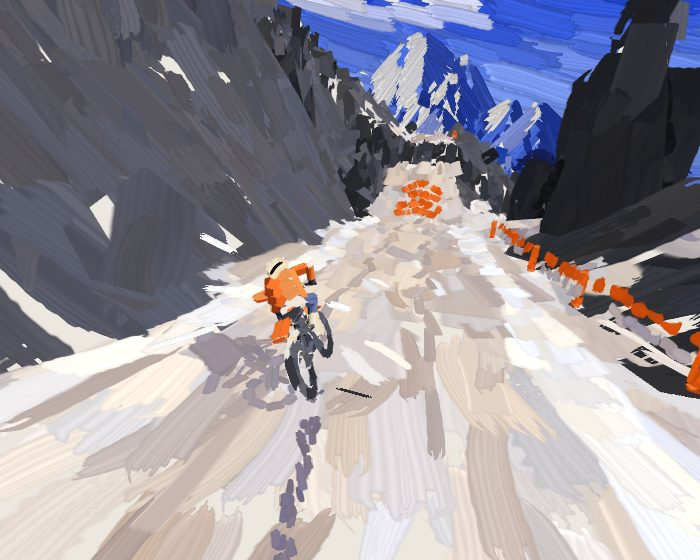
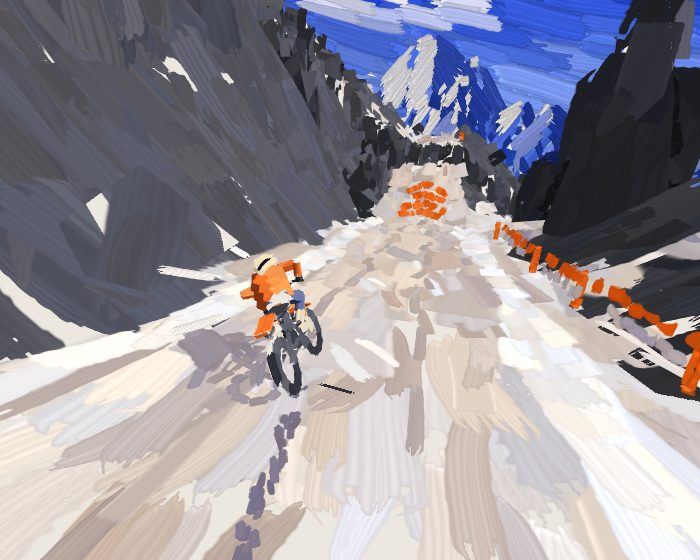
lab/switchback: middle-distance hills in the world between road and river
Two ridges per 240-station stretch, 250-950 m out on the drop side, world
anchored so they pass with real parallax; painted like the ranges with a
forest over their lower slopes; streamed ahead of the rider.

Claude-Session: https://claude.ai/code/session_01XxjdrEubiC3ZZ3ppUeUc93

diff --git a/cells/lab/client/switchback/paint.ts b/cells/lab/client/switchback/paint.ts
@@ -429,6 +429,61 @@ export function foothillStrokes(seed: number): Float32Array {
   for (const g of foothillProfiles(seed)) layerStrokes(g, seed, out);
   return new Float32Array(out);
 }
+/** The middle distance: hills between the road and the river, on the drop side, standing in the world (not drawn about
+ * the eye), so they pass by as you ride, the nearer faster: two ridges along each stretch of the way (`k`, 240 stations
+ * each), one 250-500 m out, one 550-950 m out, each a crest that rises to a summit or two and falls into saddles, their
+ * feet below the valley's floor; painted as the far ranges are (rows of strokes under each run of the crest, along it,
+ * turning down the fall lower down, lit from the left of the way you look), the farther hazier, a forest over the lower
+ * slopes, its top ragged with treetops. Nowhere within 180 m of the road (a hairpin's other leg) */
+export const MID_SPAN = 240;
+export function midHillStrokes(c: Course, k: number): Float32Array {
+  const R0 = rng(c.seed * 7121 + k * 97), list: number[][] = [], s0 = k * MID_SPAN, s1 = s0 + MID_SPAN;
+  // (the road nearby, to keep clear of)
+  const road: number[][] = [];
+  for (let s = Math.max(0, s0 - 900); s < s1 + 900; s += 15) { const p = c.point(s, 0); road.push([p.x, p.z]); }
+  const clear = (x: number, z: number) => road.every(([rx, rz]) => (rx - x) ** 2 + (rz - z) ** 2 > 180 * 180);
+  for (const [U0, dU, H0, haze] of [[550, 400, 320, 0.12], [250, 250, 200, 0.04]] as number[][]) {
+    const u0 = U0 + R0() * dU, base = c.point(s0 + MID_SPAN / 2, 0).y - 340, ph = R0() * 6.28, peaks = 1 + Math.floor(R0() * 2);
+    // (the crest: from the stretch's start to its end, rising to its summits; its ends low so stretches meet in saddles)
+    const crest: number[][] = [];
+    for (let s = s0 - 30; s <= s1 + 30; s += 30) {
+      const f = (s - s0 + 30) / (MID_SPAN + 60), u = u0 + 60 * Math.sin(f * 4 + ph);
+      const lift = Math.pow(Math.max(0, Math.sin(Math.PI * f * peaks + ph * 0.3)), 1.1) * 0.65 + 0.35 * Math.sin(Math.PI * f);
+      const p = c.point(s, u), top = base + 90 + H0 * lift * (0.92 + 0.16 * R0());
+      crest.push([p.x, top, p.z, clear(p.x, p.z) ? 1 : 0]);
+    }
+    const dist = u0, W0 = Math.max(4, dist * 0.022), L0 = dist * 0.09;
+    for (let i = 0; i < crest.length - 1; i++) {
+      const A = crest[i], B = crest[i + 1];
+      if (!A[3] || !B[3]) continue;
+      const dx = B[0] - A[0], dz = B[2] - A[2], hl = Math.hypot(dx, dz) || 1, dh = B[1] - A[1];
+      // (down along the crest; toward the road is the face you see)
+      let tx = dx / hl, tz = dz / hl, ty = dh / hl; if (ty > 0) { tx = -tx; tz = -tz; ty = -ty; }
+      const toward = [-dz / hl, 0, dx / hl], mid = [(A[0] + B[0]) / 2, (A[2] + B[2]) / 2], pr = c.point(s0 + MID_SPAN / 2, 0);
+      if ((pr.x - mid[0]) * toward[0] + (pr.z - mid[1]) * toward[2] < 0) { toward[0] = -toward[0]; toward[2] = -toward[2]; }
+      const slope = Math.min(1, Math.abs(dh) / hl * 3), side = (dh > 0 ? 1 : -1);
+      const tall = (A[1] + B[1]) / 2 - base, rowH = W0 * 0.55;
+      for (let r = 0; r * rowH < tall; r++) {
+        const depth = r * rowH, df = depth / tall, turn = depth > L0 * 0.6 ? Math.min(0.6, df) : 0;
+        const T = [tx * (1 - turn), ty * (1 - turn) - turn, tz * (1 - turn)], tl = Math.hypot(T[0], T[1], T[2]); T[0] /= tl; T[1] /= tl; T[2] /= tl;
+        const L = Math.min(L0 * 1.6, hl * 0.9) * (0.8 + R0() * 0.4), n = Math.max(1, Math.round(hl / (L * 0.6)));
+        for (let j = 0; j < n; j++) {
+          const f = (j + 0.2 + R0() * 0.6) / n, x = A[0] + dx * f, z = A[2] + dz * f, cy = A[1] + dh * f, y = cy - depth - W0 * (0.4 + R0() * 0.3);
+          if (y < base) continue;
+          const forest = df > 0.42 + 0.12 * Math.sin(x * 0.02 + z * 0.013);
+          const nn = [toward[0] * 0.8 + tx * side * 0.4 * slope, 0.45 - df * 0.3, toward[2] * 0.8 + tz * side * 0.4 * slope], nl = Math.hypot(nn[0], nn[1], nn[2]);
+          plan(list, x, y, z, forest ? M.FOREST : M.RIDGE, haze, forest ? [T[0] * 0.3 + tx * 0.7, 0, T[2] * 0.3 + tz * 0.7] : T, L, [nn[0] / nl, nn[1] / nl, nn[2] / nl], W0 * 1.05, R0(), [0, 7, 0, 1][Math.floor(R0() * 4)], (R0() - 0.5) * 0.1, forest ? 1 + Math.floor(R0() * 3) : 4);
+          // (the forest's top: treetops standing out of it)
+          if (forest && R0() < 0.35 && df < 0.62) plan(list, x, y + W0 * 0.8, z, M.FOREST, haze, [0, -1, 0], W0 * (1.2 + R0()), [toward[0], 0.2, toward[2]], W0 * 0.7, R0(), 0, 0, 2);
+        }
+      }
+    }
+  }
+  list.sort((p, q) => p[1] - q[1]);
+  const out: number[] = []; for (const st of list) out.push(...st);
+  return new Float32Array(out);
+}
+
 /** The valley's floor: fields in patches, ochre, lavender and blues, laid level round the eye, broader further off and
  * hazier; and the river over it, a thin pale line in long strokes along it. */
 export function valleyStrokes(seed: number): Float32Array {

diff --git a/cells/lab/client/switchback/render.ts b/cells/lab/client/switchback/render.ts
@@ -18,7 +18,7 @@ import type { Rider, Event } from './sim';
 import { GEARS } from './audio';
 import { buildRuts, Trail } from './ruts';
 import { buildGouges } from './gouge';
-import { STROKE, Painter, Strokes, Brush2D, strokesOver, skyStrokes, lineOf, courseStrokes, backdropLayers, valleyStrokes, fallStrokes, flagStrokes, riderStrokes, partShadowStrokes } from './paint';
+import { STROKE, Painter, Strokes, Brush2D, strokesOver, skyStrokes, lineOf, courseStrokes, backdropLayers, valleyStrokes, midHillStrokes, MID_SPAN, fallStrokes, flagStrokes, riderStrokes, partShadowStrokes } from './paint';
 
 const VS = `#version 300 es
 in vec4 aP; uniform mat4 uVP; uniform vec3 uOff; uniform float uZj; out vec3 vW; flat out int vM;
@@ -101,6 +101,7 @@ export class Renderer {
   paint = false; painter: Painter | null = null; stretchWanted = 1; leadWanted: [number, number] | null = null;
   /** only the backdrop drawn (`bg=`) */
   bgOnly = false;
+  private mids = new Map<number, Strokes>();
   private floor: Strokes | null = null; private backLayers: { s: Strokes; f: number; cap: number }[] = []; private eye0: number[] | null = null;
   /** the backdrop's parallax starts again from here (the start, or a respawn: the eye's cut there anyway) */
   rebase() { this.eye0 = null; }
@@ -183,6 +184,12 @@ export class Renderer {
       this.chunks.clear();
     }
     this.stream(r.s, this.painter && this.chunks.size === 0 ? 99 : budget);
+    // (the middle distance's hills, a stretch at a time, from a little behind to well ahead; one new stretch a frame)
+    if (this.painter) {
+      const lo = Math.floor((r.s - 400) / MID_SPAN), hi = Math.floor((r.s + 1600) / MID_SPAN);
+      for (const [k, b] of this.mids) if (k < lo || k > hi) { b.free(); this.mids.delete(k); }
+      for (let k = Math.max(0, lo); k <= hi; k++) if (!this.mids.has(k)) { this.mids.set(k, this.painter.make(midHillStrokes(this.course, k))); if (this.mids.size > 2 && budget < 99) break; }
+    }
     const asp = this.W / this.H, fov = asp < 1 ? view.fov * 1.25 : view.fov;
     // (the eye's roll: its up tipped toward its right)
     const fwd = norm([view.target[0] - view.eye[0], 0, view.target[2] - view.eye[2]]), rt = [-fwd[2], 0, fwd[0]];
@@ -257,6 +264,8 @@ export class Renderer {
       paintBegin(); gl.disable(gl.DEPTH_TEST);
       if (this.floor) pt.draw(this.floor, this.layerOff(view.eye, 0.35, 190, true), false);
       for (const l of this.backLayers) pt.draw(l.s, this.layerOff(view.eye, l.f, l.cap, false), false);
+      // (the middle distance's hills, standing in the world: the farther stretches first)
+      for (const k of [...this.mids.keys()].sort((a, b) => b - a)) pt.draw(this.mids.get(k)!, [0, 0, 0], false);
       gl.enable(gl.DEPTH_TEST); pt.end(); gl.useProgram(this.prog);
       gl.disable(gl.STENCIL_TEST);
       // (what's near: its facets only in the depth; then its strokes, laid in the world on them and lifted a little toward

diff --git a/cells/lab/static/switchback.md b/cells/lab/static/switchback.md
@@ -124,7 +124,7 @@ An experiment in drawing the mountain as paint, after looking closely at a brush
 - **No occlusion holes.** Only the ground and the rider claim depth and the stencil. The things standing on the ground (the fence, the poles, the pines, a kicker's boards), the flags and the falls claim neither: what's behind them is painted (the ground, the ranges, the sky), and their strokes over it, so a gap between their strokes shows what's behind, never paper. In each chunk the ground's strokes and the way's are laid first, the things' after them, by order; and the things are laid with the masses' front, not the detail's, so they're there as soon as the ground they stand on is. (The rider keeps its depth: its strokes are on both sides of it, and its own depth hides its far side.)
 - **Flags.** Painted by how far off they are. Near (within about 25 m, gone by 40): strokes riding the cloth, four rows from the pole to the free end, four along each, each tied to its own place on the cloth rather than to a facet (painted facet by facet, their strokes were reshaped every frame and shimmered), so they move with the wave and hold still on it; the wave in their colour, lit or in shade as the cloth turns to the sun. Far (from about 20 m): the banner one gesture, a flick from the pole's top out along it, whipping thin, and a shorter one over it, an orange mark on a pole that reads from far ahead. Between, one fades into the other. The pole is one dark upright stroke. (Seed 1 has flags at 155, 527, 899, 1395.)
 - **Waterfalls.** Not a ribbon but strokes in several sheets, one in front of another: the back one lilac-grey and dense (the water in shadow, covering the fall), white over it, a few pale blue in front; each a run of streaks sliding down the fall's arc with the water, drawn out by how fast it's falling where it is (short at the lip, long below), growing as it comes over and shrinking as it lands; a few strokes across the lip, glassy; spray at the foot, dabs thrown up and out, growing and fading. Built each frame, every streak keeping its place in the flow, so it moves with the water rather than flickering. (`at=<station>` puts you on the line at a station, for looking at a place: seed 1 has falls at 621, 813, 1186, 1629.)
-- **The far off.** In layers that recede, each further one hazed toward the sky's pale horizon: a snow massif (its crest broken by sub-summits and notches all along, not a row of cones), a nearer snowy range, a range of blue hills, four arcs of forested hills nearer, taller and darker the nearer, overlapping so they stack up the middle distance (the valley opening between them), then the valley's floor and its forested foothills. Under each summit a spur runs down toward you, wandering, with a branch or two leaving it down and outward (a shoulder sends a shorter one); under the crest the nearest spur decides a stroke's plane: the side of it the stroke is on faces that way, lit on the left, shaded on the right, the strokes running down and away from it, so the mountain splits into chevrons at more than one scale, and snow runs down the spurs' crests below the snow line. A stroke turns down a spur's plane only where its head, wherever it lands, stays under the crest there, and a stroke along the crest stays within its segment (run on, it carried on up past the summit). Each plane is one colour, decided when it's planned (lit or in shade by its side, snow or not), with a neighbouring colour streaked in now and then, and its strokes long: calm planes, not a flicker of light and dark stroke by stroke. A forest is painted over its hill's lower slopes: a dense dark band, its top serrated with close-set treetops, rising and falling along the hill. Each layer is painted by its form, not its faces: its crest simplified to the segments that matter (a summit, a shoulder, a long saddle), each segment painted in rows under it, every stroke sized by its segment, so a long flat saddle is a few long level strokes, not hundreds of identical ones (they made a ruled band of hatching), and a steep flank many shorter ones along the ridge, turning down the fall lower down; the strokes along the crest cut the skyline clean. Snow in streaks along the ridges and down the gullies above the snow line, warm where it's lit. Lit as a painter lights the far off, not by the sun: from the left of the way you look, so a peak always shows a lit flank and one in shade (by the sun, half the peaks were backlit). Painted in order, not by depth: the sky everywhere, the layers farthest first over it, so their strokes run over the skyline as a brush does; the valley's floor by depth (fields in patches of ochre, lavender and blues, laid level round the eye, broader further off; the river a thin pale line along it); the foothills over that, a dark forest band along each one's foot, its top ragged with treetops. The sky deepens from a pale horizon to the top in long calm strokes on one slant, with a few clouds, each a cluster of pale strokes lit above and shaded under. It was drawn about the eye, moved with it every frame, so it was as if it stood infinitely far off: it turned as you turned, never moved as you rode, and the valley's floor stayed the same depth under you all the way down. Now each layer has its own parallax, as if it stood nearer than it does (a fraction of the way you've come since the start or your last respawn, more for the nearer layers: the foothills and hill arcs about three quarters, the snow massif about a third), soft-capped at about a third of its distance so you never come up to it: over a few hundred metres the near hills slide against the far peaks and the ranges ahead rise and spread. The valley's floor rises toward you as you come down the mountain (never closer than about 140 m). It's all painted by order, not depth: the floor, then the layers farthest first. The clouds drift round the sky. `bg=yaw,pitch,fov` shows the backdrop alone.
+- **The far off.** In layers that recede, each further one hazed toward the sky's pale horizon: a snow massif (its crest broken by sub-summits and notches all along, not a row of cones), a nearer snowy range, a range of blue hills, four arcs of forested hills nearer, taller and darker the nearer, overlapping so they stack up the middle distance (the valley opening between them), then the valley's floor and its forested foothills. Under each summit a spur runs down toward you, wandering, with a branch or two leaving it down and outward (a shoulder sends a shorter one); under the crest the nearest spur decides a stroke's plane: the side of it the stroke is on faces that way, lit on the left, shaded on the right, the strokes running down and away from it, so the mountain splits into chevrons at more than one scale, and snow runs down the spurs' crests below the snow line. A stroke turns down a spur's plane only where its head, wherever it lands, stays under the crest there, and a stroke along the crest stays within its segment (run on, it carried on up past the summit). Each plane is one colour, decided when it's planned (lit or in shade by its side, snow or not), with a neighbouring colour streaked in now and then, and its strokes long: calm planes, not a flicker of light and dark stroke by stroke. A forest is painted over its hill's lower slopes: a dense dark band, its top serrated with close-set treetops, rising and falling along the hill. Each layer is painted by its form, not its faces: its crest simplified to the segments that matter (a summit, a shoulder, a long saddle), each segment painted in rows under it, every stroke sized by its segment, so a long flat saddle is a few long level strokes, not hundreds of identical ones (they made a ruled band of hatching), and a steep flank many shorter ones along the ridge, turning down the fall lower down; the strokes along the crest cut the skyline clean. Snow in streaks along the ridges and down the gullies above the snow line, warm where it's lit. Lit as a painter lights the far off, not by the sun: from the left of the way you look, so a peak always shows a lit flank and one in shade (by the sun, half the peaks were backlit). Painted in order, not by depth: the sky everywhere, the layers farthest first over it, so their strokes run over the skyline as a brush does; the valley's floor by depth (fields in patches of ochre, lavender and blues, laid level round the eye, broader further off; the river a thin pale line along it); the foothills over that, a dark forest band along each one's foot, its top ragged with treetops. The sky deepens from a pale horizon to the top in long calm strokes on one slant, with a few clouds, each a cluster of pale strokes lit above and shaded under. It was drawn about the eye, moved with it every frame, so it was as if it stood infinitely far off: it turned as you turned, never moved as you rode, and the valley's floor stayed the same depth under you all the way down. Now each layer has its own parallax, as if it stood nearer than it does (a fraction of the way you've come since the start or your last respawn, more for the nearer layers: the foothills and hill arcs about three quarters, the snow massif about a third), soft-capped at about a third of its distance so you never come up to it: over a few hundred metres the near hills slide against the far peaks and the ranges ahead rise and spread. The valley's floor rises toward you as you come down the mountain (never closer than about 140 m). It's all painted by order, not depth: the floor, then the layers farthest first. The clouds drift round the sky. But that parallax, scaled to the ranges' kilometres, is hardly to be seen; what moves is the **middle distance**: hills between the road and the river, on the drop side, standing in the world rather than drawn about the eye, so they pass by as you ride, the nearer faster. Two ridges along each 240-station stretch of the way, one 250–500 m out and one 550–950 m out, each a crest rising to a summit or two and falling into saddles where the stretches meet, its feet under the valley's floor; painted as the far ranges are (rows of strokes under each run of the crest, along it, turning down the fall lower down, lit from the left of the way you look), the farther one hazier, a forest over their lower slopes, its top ragged with treetops; never within 180 m of the road (a hairpin's other leg). Built a stretch at a time from a little behind you to 1.6 km ahead. `bg=yaw,pitch,fov` shows the backdrop alone.
 - **The speed layer too.** Its shards, the smears off the posts, the air off the rider and the debris are laid with the same stamps, tinted: a wedge becomes a long stroke tapering the same way, a chip a dab.
 
 The marks come from an atlas of sixteen brush stamps made when the page loads: flats, rounds, a dab, dry flats running out, a long flat, flicks (heavy at the start, whipped thin, curving), impasto (a few thick bristles, deep ridges, ragged edges), a scumble (dragged dry over the paper's tooth), a wash (soft-edged, smooth), a fan (bristles splayed), a palette knife (flat, hard-edged, cut on a slant, paint ridged at its sides) and a rake. Each is a brush of bristles that clump (bands of their own widths), every bristle with its own load of paint, touching down and lifting a little apart from the rest, running dry along the stroke, and piling paint where it lifts. Each subject has its own brushes: the road flats and the knife; the snow rounds, dabs, washes, scumbles, fans and flicks; the rock dry flats, impasto, the knife and the rake; the far ranges long flats and washes. And no two strokes are alike: each a little lighter or darker, warmer or cooler. They.re drawn instanced, blended (premultiplied) in a fixed order, far chunks first.
